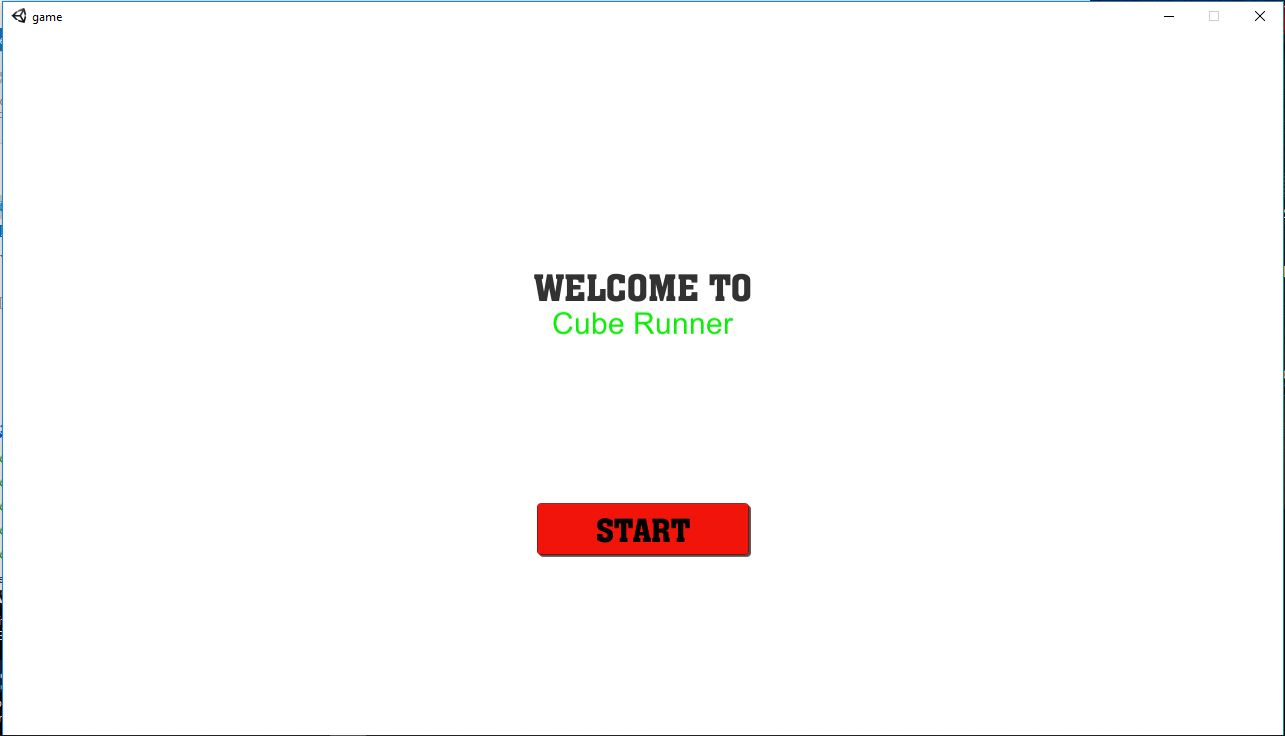
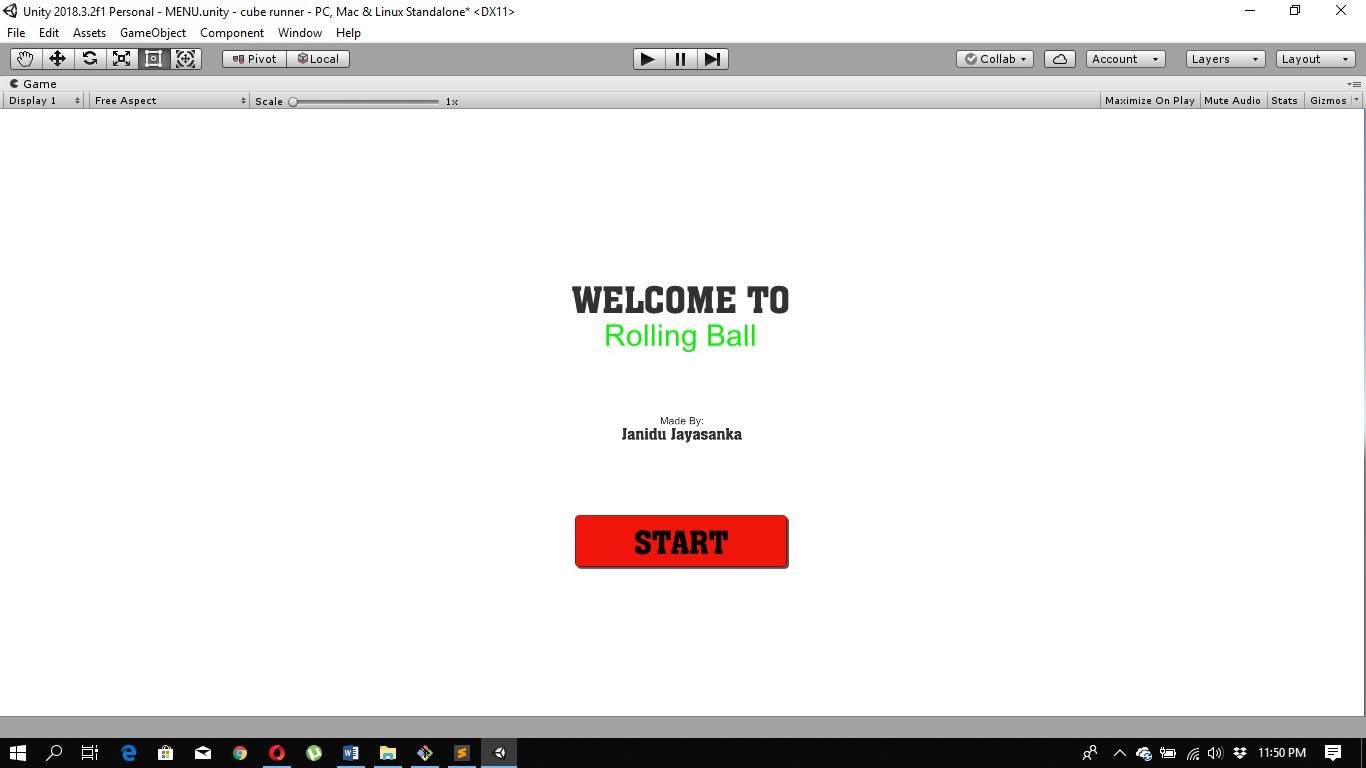
add vlog

diff --git a/index.html b/index.html
@@ -315,7 +315,7 @@
 							<div class="col-md-5 col-md-offset-7">
 								<div class="single_coolautumn text-right wow fadeInLeft" data-wow-duration="1.5s">
 									<div class="date">16/03/2019</div>
-									<h3>Cube Runner Mini Game</h3>
+									<h3>Rolling ball Mini Game</h3>
 									<blockquote class="blockquote-reverse">
 										<p>This game was created by me for fun,I followed Youtube tutorial for take basic idea and create my own game,Using my own ideas</p>
 									</blockquote>
